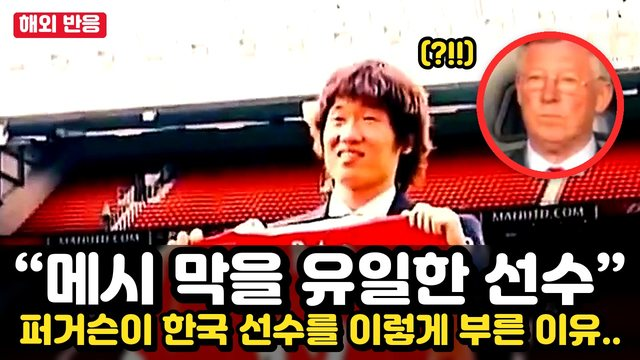
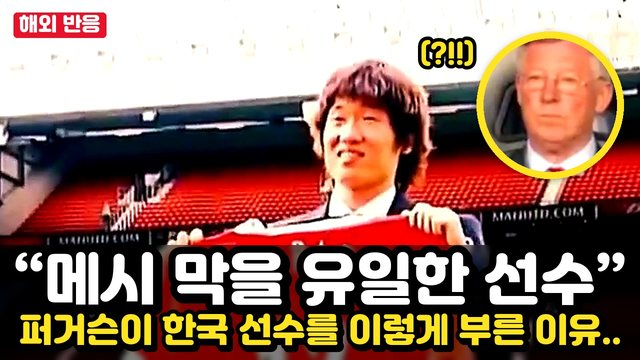
썸네일 V3.1 3차: 원 위 불꽃·불꽃 띠 끝 노출·VS 불꽃 줄기·좌우반전, 💀 실수 13개, 새 5편, 클릭 확대 미리보기

Changed region(s): [[0.7188, 0.0611, 1.0, 0.5194]]

diff --git a/국뽕-유튜브-리서치-허브-20261108/thumb-edit-studio-20261123/thumb-rules-v3/index.html b/국뽕-유튜브-리서치-허브-20261108/thumb-edit-studio-20261123/thumb-rules-v3/index.html
@@ -8,7 +8,7 @@ mark{background:#FFE51F;color:#111;padding:0 3px;border-radius:3px}.hl2{backgrou
 .cp{position:absolute;right:8px;top:8px;background:#333;color:#fff;border:0;border-radius:6px;padding:4px 10px;cursor:pointer}.cp.ok{background:#2a8f4a}
 ol li,ul li{margin:4px 0}.grid{display:grid;grid-template-columns:repeat(2,minmax(0,1fr));gap:12px}.grid figure{margin:0;background:#0c0d10;border-radius:10px;overflow:hidden}.grid img{width:100%;display:block}.grid figcaption{padding:8px 10px;font-size:14px}
 .sty{display:grid;grid-template-columns:repeat(3,minmax(0,1fr));gap:10px}.sty div{background:#22242b;border-radius:10px;padding:12px}
-@media(max-width:760px){.grid,.sty{grid-template-columns:1fr!important}}</style></head><body>
+@media(max-width:760px){.grid,.sty{grid-template-columns:1fr!important}}.skull{display:grid;grid-template-columns:repeat(2,minmax(0,1fr));gap:8px}.skull div{background:#2a1416;border:1px solid #E8132B;border-radius:10px;padding:10px 12px}.skull .n{font-size:20px;font-weight:900;color:#FFE51F}#ov{position:fixed;inset:0;background:#000d;display:none;align-items:center;justify-content:center;z-index:99}#ov img{max-width:96vw;max-height:92vh;width:auto}.grid img{cursor:zoom-in}@media(max-width:760px){.skull{grid-template-columns:1fr}}</style></head><body>
 <button id="all">📋 전체 복사</button>
 <h1>🔥 썸네일 V3.1 규칙 <small style="font-size:14px;color:#aaa">2026-11-24 · 다른 세션도 이대로</small></h1>
 <h2>📂 폴더 (먼저 연다)</h2>
@@ -19,6 +19,7 @@ ol li,ul li{margin:4px 0}.grid{display:grid;grid-template-columns:repeat(2,minma
 <div>📁 <b>결과물 폴더(영상별 썸네일_V3)</b></div><div class="cb "><button class="cp">복사</button><pre>/run/media/yh/새 볼륨/_국뽕영상결과물</pre></div>
 <div>📁 <b>규칙·합성기(compose4.py)</b></div><div class="cb "><button class="cp">복사</button><pre>/run/media/yh/새 볼륨/_국뽕영상결과물/제작규칙_V4/썸네일_V3</pre></div>
 <div>📁 <b>🆕 시범 10편 × 3버전 (V3.1 최신)</b></div><div class="cb "><button class="cp">복사</button><pre>/run/media/yh/새 볼륨/_국뽕영상결과물/제작규칙_V4/썸네일_V3/시범10_V3.1</pre></div>
+<h2>💀 지적받은 실수 — 다시 하면 탈락</h2><div class="skull"><div><span class="n">💀1</span> <b>중국 외국인들</b><br><span class="red">✗ &quot;중국 외국인들&quot;처럼 나라+외국인을 겹쳐 씀</span><br><span class="cy">✓ 중국인이면 중국인, 아니면 외국인 — 하나만</span></div><div><span class="n">💀2</span> <b>외국인 해외 반응 태그</b><br><span class="red">✗ 빨간 태그에 &quot;외국인 해외 반응&quot;</span><br><span class="cy">✓ 태그는 &quot;해외 반응&quot; 네 글자만</span></div><div><span class="n">💀3</span> <b>얼굴 쏠림·잘림</b><br><span class="red">✗ 인셋 얼굴이 한쪽으로 쏠리거나 잘림</span><br><span class="cy">✓ 얼굴은 칸 정중앙, 한 사람이면 그 얼굴만</span></div><div><span class="n">💀4</span> <b>국기 흰 사각형</b><br><span class="red">✗ 국기 뒤 흰 사각형(원본에 박힌 스티커)·빨간 테두리와 겹침</span><br><span class="cy">✓ 동그란 국기 배지, 박힌 스티커는 잘라냄</span></div><div><span class="n">💀5</span> <b>흰 동그라미</b><br><span class="red">✗ 원형 인셋에 흰 테두리</span><br><span class="cy">✓ 빨강 또는 노랑만 — 배경이 붉으면 노랑</span></div><div><span class="n">💀6</span> <b>원 아래 불꽃</b><br><span class="red">✗ 원 아래로 내려간 불꽃이 잘려서 허접</span><br><span class="cy">✓ 불꽃은 원 위쪽으로만 솟게, 아래쪽 불꽃은 없앰</span></div><div><span class="n">💀7</span> <b>안 보이는 불꽃 띠</b><br><span class="red">✗ 아래 불꽃 띠가 글자 뒤에 깔려 안 보임</span><br><span class="cy">✓ 불꽃 끝이 글자 위로 삐죽 보이게</span></div><div><span class="n">💀8</span> <b>촌스러운 VS 라벨</b><br><span class="red">✗ 한국·중국 라벨의 상자·테두리</span><br><span class="cy">✓ 테두리 없이 NO!! 색(노랑→주황→빨강) 글자 + 동그란 국기</span></div><div><span class="n">💀9</span> <b>VS 시선</b><br><span class="red">✗ VS 인물이 바깥쪽을 봄</span><br><span class="cy">✓ 좌우반전해서 서로 마주 보게, 가운데는 불꽃 줄기</span></div><div><span class="n">💀10</span> <b>휑한 화면</b><br><span class="red">✗ 빈 관중석·빈 배경</span><br><span class="cy">✓ 군중엔 빨간 동그라미 + ?, 놀란 얼굴엔 ?!, 레이어 4~6개</span></div><div><span class="n">💀11</span> <b>잘린 조각</b><br><span class="red">✗ 잘린 스티커·모자이크·초록 줄·로고가 남음</span><br><span class="cy">✓ 전부 잘라내고 다시 확인</span></div><div><span class="n">💀12</span> <b>흐린 얼굴</b><br><span class="red">✗ 저해상도 얼굴을 크게 확대</span><br><span class="cy">✓ 선명화 + 더 좋은 프레임, 필요하면 업스케일</span></div><div><span class="n">💀13</span> <b>몸 있는 사람</b><br><span class="red">✗ 몸이 아래까지 보이는데 얼굴만 크게 자름</span><br><span class="cy">✓ 몸까지 당겨 보이게, 양옆에서 솟는 불꽃</span></div></div>
 <h2>✍ 썸네일 문구 규칙</h2><ol><li>🏆 <mark><b>잘 만든 제목을 그대로 썸네일 문구로</b></mark> 쓴다.</li><li>❓ <b>답을 바로 말하지 않는다</b> — <span class="red">✗ 한국인이 좋아한 건 라면이었다</span> → <span class="cy">✓ 한국 라면에 외국인들 난리난 상황..</span></li><li>🔚 끝은 <mark>이유 · 상황 · ? · .. · ...</mark> 로 끊어 궁금하게.</li><li>🇰🇷 필수 단어: <mark>한국</mark> + <mark>반응 주체 하나</mark> — 중국 사람이면 <b>중국인(들)</b>, 일본이면 <b>일본인</b>, 여럿이거나 불분명하면 <b>외국인(들)</b>.<br><span class="red">🚫 ✗ 중국 외국인들 · ✗ 중국인 외국인 · ✗ 외국인들 해외 반응 (겹쳐 쓰기 금지)</span><br><span class="cy">✓ 중국인 넋 나간 이유.. · ✓ 외국인 넋 나간 이유.. · ✓ 중국 블로거 한마디에 외국인들 반응..</span><br>🏷 빨간 태그는 <mark>해외 반응</mark> 네 글자만 (✗ 외국인 해외 반응).</li><li>💥 강조어(근거에 맞는 것 하나): 대박·경악·충격·놀람·논란·오열·난리·대폭발·대반전·발칵·망연자실.</li><li>🔢 숫자는 <mark>한글 단위</mark>: 4000 → <b>4천</b>, 450000 → <b>45만</b>. 반올림 금지.</li><li>🗨 “큰따옴표”는 <b>영상 속 실제 발언만</b>. 인용·인원·수치·반응 강도는 영상에서 확인한 범위만.</li></ol>
 <div>📋 <b>규칙 원문 (복사용)</b></div><div class="cb "><button class="cp">복사</button><pre>제목·썸네일 문구에 ‘외국인’ 또는 ‘외국인들’과 ‘해외 반응’을 넣는다. ‘리액션’은 선택. 대박·경악·충격·놀람·논란·오열·난리·대폭발·대반전 중 근거에 맞는 표현을 고른다.
 비교·현장형은 ‘한국처럼 못하나’, ‘삼성으로 몰려가는 외국인’, ‘유럽인들 발칵’, ‘경악한 미국’, ‘무섭다’, ‘싹 다 쓸어갔다·망쳐놨다·무너졌다’처럼 비교 대상과 장면을 앞에 둔다.
@@ -29,36 +30,51 @@ ol li,ul li{margin:4px 0}.grid{display:grid;grid-template-columns:repeat(2,minma
 “큰따옴표”는 영상 속 실제 발언만. 제목에는 이모지(🔥😱😭🇰🇷)를 항상 넣는다.</pre></div>
 <h2>🖼 화면 구성 — 꽉 차게</h2><ol><li>🧱 <mark><b>레이어 4~6개</b></mark>: 배경 사진 + 인셋 2장(하늘색·흰·빨강 테두리) + 국기·VS + 말풍선 (?!!)·(헐...)·(....)·똑똑히 보세요 + 빨간 화살표·노란 동그라미 + 빨간 태그 “해외 반응”.</li><li>🌄 배경은 <b>화면 끝까지</b>. 사진이 짧으면 같은 사진을 흐리게·어둡게 키워 뒤를 채운다.</li><li>🌫 글자 뒤가 복잡하면 <mark>그 띠만 블러 + 어둡게</mark>.</li><li>🙂 <span class="red">얼굴은 글자와 절대 겹치지 않는다.</span> 얼굴은 위·아래 글자 사이 가운데 띠 안에 통째로. 눈만 보이는 과한 클로즈업·너무 작은 얼굴 금지 — <b>띠 높이의 40~80%</b>.</li><li>📸 사진 우선순위: 놀람 2 › 소리침·충격·눈물·경악·공포 › 깔깔 웃음 / 우르르 인파 / 서양인·흑인·아나운서·기자·뉴스 화면. 영상에 박힌 자막은 잘라낸다.</li><li>🎯 <mark><b>인셋 얼굴은 칸 정중앙</b></mark>. 한쪽으로 쏠리면 다시 만든다. 얼굴이 원본 가장자리면 더 클로즈업해서라도 가운데로. 한 사람을 쓸 땐 <b>그 사람 얼굴만</b>(어깨 위).</li><li>🏳 <mark>국기는 동그란 배지</mark>(흰 테+검정 외곽선), 인셋 테두리와 30px 이상 띄운다. 흰 사각형이 보이면 <b>원본에 박힌 스티커·자막</b>인지 먼저 확인해 잘라낸다.</li><li>⭕ 원형 인셋 OK — 네모만 고집하지 않는다. <b>원 뒤에 황금 불꽃 아치</b> = 사람 뒤에서 불 나오는 효과.</li><li>🔥 디자인 요소(폴더 맨 위 파일만, xxxx 하위 폴더 제외): 불꽃 아치(원 뒤) · 불꽃 띠(아래 글자 뒤) · 번개/불꽃 줄기(VS 분할선) · <b>NO!! 노우</b>(거절·반대 문맥일 때만) · ㅋㅋ(웃음 문맥).</li><li>🚫 놀란 표정을 <b>새로 만들어 넣지 않는다</b>(실존 인물 표정 조작 금지). 영상 속 실제 놀람·소리침 프레임만.</li><li>🧽 K PRIDE 등 로고·원본 스티커·박힌 자막·<b>모자이크·화면 맨 위 색 줄</b>은 잘라낸다. <span class="red">잘린 스티커 조각이 남으면 완성도 탈락.</span></li><li>⭕ <span class="red">흰 동그라미 테두리 금지</span> — 원형 테두리는 <mark>빨강</mark> 또는 <mark>노랑</mark>만.</li><li>🔥 <mark><b>불꽃은 끊기지 않게</b></mark>: 원 뒤 불꽃은 화면 맨 아래까지 늘려 아래 불꽃 띠와 이어지게. 몸이 아래까지 보이는 사람은 <b>몸까지 보이게 당기고 양옆에서 솟는 불꽃</b>.</li><li>🏷 VS 나라 라벨은 <b>상자·테두리 없이</b> 동그란 국기 + <span style="background:linear-gradient(#F9DF00,#FC8701,#FD0C01);-webkit-background-clip:text;color:transparent;font-weight:900">NO!! 색 그라데이션</span> 글자.</li><li>❓ 군중 사진엔 <span class="red">빨간 동그라미</span> + 노랑 <b>?</b> / 놀란 얼굴 옆엔 <b>?!</b></li><li>🔍 저해상도 원본은 자동 선명화. 원본 480p 이하면 AI 업스케일 필요.</li><li>🔤 폰트: <mark>여기어때 잘난체 2</mark>만. 검정 외곽선 = 글자 크기 1/8 + 그림자. 색 노랑 #FFE51F · 흰 #FFFFFF · 하늘 #3DE6FF · 태그 빨강 #E8132B.</li></ol>
 <h2>🎨 스타일 (좋썸넬 분석 + 사용자 지정 2종)</h2><div class="sty"><div><b>A 뉴스 3줄형</b><br>위 2~3줄(첫 줄 흰 “인용”, 나머지 노랑) + 가운데 사진 띠(인셋 2·국기·화살표) + 아래 1줄 <span class="cy">하늘색 질문·이유</span>. 조회수 상위 다수.</div><div><b>B 리액션 인셋형</b><br>위 2줄 + 큰 현장 사진(군중·제품) 위에 반응 얼굴 인셋 2장 + 아래 <span class="cy">“인용…”</span>.</div><div><b>C 임팩트 2줄형</b><br>사진 한 장 크게 + 아래 2줄 아주 크게(흰 “인용” + 노랑 이유..) + 원형 인셋 1개 + 빨간 태그.</div><div style="border:2px solid #FFE51F"><b>🆕 B′ 번개 VS 세로 분할형</b><br>화면 반반: 왼쪽 🇰🇷 한국 / 오른쪽 상대국 얼굴. 가운데 <mark>노란 번개 또는 불꽃 줄기 + 큰 VS</mark>. 위 양끝 국기+나라 라벨(한국 파랑·상대 빨강). 아래 2줄 흰 “인용” + 노랑 이유..</div><div style="border:2px solid #FF2B2B"><b>🆕 C′ 불꽃 원형 충격형</b><br>큰 장면 전체 + 오른쪽 위 <mark>원형 놀란 얼굴 + 뒤에 불꽃 아치</mark> + 노랑 ?! + 왼쪽 위 빨간 “해외 반응” + 아래 <b>불꽃 띠</b> 위 2줄(흰 “인용” + 하늘색 이유..). 거절 문맥이면 NO!!.</div></div><p>👉 <mark><b>한 영상당 3장</b></mark>: A(또는 B·C) 1장 + B′ 1장 + C′ 1장.</p>
-<h2>🧪 시범 10편 × 3버전 (V3.1 · 우리 영상 캡처로 제작)</h2><p>🔧 <b>2차 수정(11-24 밤)</b>: 불꽃 아치 화면 아래까지 · 흰 원 → 빨강/노랑 · VS 라벨 NO!! 그라데이션 · 잘린 스티커·모자이크·초록 줄 제거 · 군중 빨간 원+? · 저해상도 선명화.</p><p>🔧 <b>V3에서 고친 것</b>: <span class="red">중국 외국인 → 중국인/외국인</span> · 태그 “해외 반응”만 · 인셋 얼굴 정중앙 · 양궁 코치 얼굴만 · 국기 동그란 배지 · 관중 사진에 박힌 흰 스티커 제거.</p><p>⚠ 07 페이커 인용은 자동번역 자막 — 공개 전 원음 대조.</p><div class="grid" style="grid-template-columns:repeat(3,minmax(0,1fr))"><figure><img loading="lazy" src="samples31/v31_01_a.jpg" alt="01 a"><figcaption><b>01 · V5_EP01_핵잠수함 · A 수정본</b><br>“핵잠수함 연료 쓰게 해달라” / 미국 앞에서 꺼낸 한국 한마디.. / 중국인들 술렁인 상황 / 다음 날 중국 외교부까지 나선 이유?</figcaption></figure>
-<figure><img loading="lazy" src="samples31/v31_01_b.jpg" alt="01 b"><figcaption><b>01 · V5_EP01_핵잠수함 · B′ 번개 VS 분할</b><br>(한국 VS 미국) “핵잠수함 연료 쓰게 해달라” / 중국 외교부까지 나선 이유?</figcaption></figure>
-<figure><img loading="lazy" src="samples31/v31_01_c.jpg" alt="01 c"><figcaption><b>01 · V5_EP01_핵잠수함 · C′ 불꽃 원형 충격</b><br>“핵잠수함 연료 쓰게 해달라” / 한국 한마디에 중국인들 술렁인 이유..</figcaption></figure>
-<figure><img loading="lazy" src="samples31/v31_02_a.jpg" alt="02 a"><figcaption><b>02 · EP07_박지성 · A 수정본</b><br>“메시 막을 유일한 선수” / 퍼거슨이 한국 선수를 이렇게 부른 이유..</figcaption></figure>
-<figure><img loading="lazy" src="samples31/v31_02_b.jpg" alt="02 b"><figcaption><b>02 · EP07_박지성 · B′ 번개 VS 분할</b><br>(한국 VS 이탈리아) “박지성을 보내 나를 막게 했다” / 피를로가 한국 선수를 못 잊는 이유..</figcaption></figure>
-<figure><img loading="lazy" src="samples31/v31_02_c.jpg" alt="02 c"><figcaption><b>02 · EP07_박지성 · C′ 불꽃 원형 충격</b><br>“메시 막을 유일한 선수” / 퍼거슨이 한국 선수를 이렇게 부른 이유..</figcaption></figure>
-<figure><img loading="lazy" src="samples31/v31_03_a.jpg" alt="03 a"><figcaption><b>03 · V5_EP09_이강인교재 · A 수정본</b><br>“군대 피하러 아시안게임 왔다” / 한국 이강인 비웃던 중국인들.. / 두 달 뒤 벌어진 대반전 상황 / 중국 코치가 결국 꺼낸 영상은?</figcaption></figure>
-<figure><img loading="lazy" src="samples31/v31_03_b.jpg" alt="03 b"><figcaption><b>03 · V5_EP09_이강인교재 · B′ 번개 VS 분할</b><br>(한국 VS 중국) “군대 피하러 아시안게임 왔다” / 이강인 비웃던 중국인들 대반전 상황..</figcaption></figure>
-<figure><img loading="lazy" src="samples31/v31_03_c.jpg" alt="03 c"><figcaption><b>03 · V5_EP09_이강인교재 · C′ 불꽃 원형 충격</b><br>“군대 피하러 아시안게임 왔다” / 한국 이강인 비웃던 중국인들 결국.. (+NO!!)</figcaption></figure>
-<figure><img loading="lazy" src="samples31/v31_04_a.jpg" alt="04 a"><figcaption><b>04 · EP_라면편의점 · A 수정본</b><br>한국 편의점 라면 한 그릇에 / 중국인들 난리난 상황.. / “맵다! 근데...”</figcaption></figure>
-<figure><img loading="lazy" src="samples31/v31_04_b.jpg" alt="04 b"><figcaption><b>04 · EP_라면편의점 · B′ 번개 VS 분할</b><br>(한국 라면 VS 중국인) “맵다! 근데 맛있어요” / 한국 라면에 중국인들 난리난 이유..</figcaption></figure>
-<figure><img loading="lazy" src="samples31/v31_04_c.jpg" alt="04 c"><figcaption><b>04 · EP_라면편의점 · C′ 불꽃 원형 충격</b><br>“맵다! 근데 맛있어요” / 한국 편의점에 중국인들 난리난 상황..</figcaption></figure>
-<figure><img loading="lazy" src="samples31/v31_05_a.jpg" alt="05 a"><figcaption><b>05 · V5_EP06_GV90 · A 수정본</b><br>“일본차 사지 말고 한국차” / 중국 블로거 한마디에 외국인들 반응.. / “한국산이 50만 루블 더 비쌉니다”...</figcaption></figure>
-<figure><img loading="lazy" src="samples31/v31_05_b.jpg" alt="05 b"><figcaption><b>05 · V5_EP06_GV90 · B′ 번개 VS 분할</b><br>(한국 VS 러시아) “한국산이 50만 루블 더 비쌉니다” / 같은 투싼인데 외국인 놀란 이유..</figcaption></figure>
-<figure><img loading="lazy" src="samples31/v31_05_c.jpg" alt="05 c"><figcaption><b>05 · V5_EP06_GV90 · C′ 불꽃 원형 충격</b><br>“일본차 사지 말고 한국차” / 중국 블로거 한마디에 외국인들 반응.. (+NO!!)</figcaption></figure>
-<figure><img loading="lazy" src="samples31/v31_06_a.jpg" alt="06 a"><figcaption><b>06 · EP09_양궁드림팀 · A 수정본</b><br>“한국 여자팀은 진정한 드림팀” / 중국 해설이 결국 인정한 이유.. / “원래대로라면 우리가...” 해외 반응</figcaption></figure>
-<figure><img loading="lazy" src="samples31/v31_06_b.jpg" alt="06 b"><figcaption><b>06 · EP09_양궁드림팀 · B′ 번개 VS 분할</b><br>(한국 VS 중국) “원래대로라면 우리가...” / 한국 양궁에 중국 해설이 인정한 이유..</figcaption></figure>
-<figure><img loading="lazy" src="samples31/v31_06_c.jpg" alt="06 c"><figcaption><b>06 · EP09_양궁드림팀 · C′ 불꽃 원형 충격</b><br>“한국 여자팀은 진정한 드림팀” / 중국 해설이 결국 인정한 이유..</figcaption></figure>
-<figure><img loading="lazy" src="samples31/v31_07_a.jpg" alt="07 a"><figcaption><b>07 · EP06_페이커 · A 수정본</b><br>한국 페이커에게 중국인들.. / 해설이 건넨 한마디 상황 / “그는 이길 자격이 있어요” 해외 반응</figcaption></figure>
-<figure><img loading="lazy" src="samples31/v31_07_b.jpg" alt="07 b"><figcaption><b>07 · EP06_페이커 · B′ 번개 VS 분할</b><br>(한국 VS 중국) “그는 이길 자격이 있어요” / 한국 페이커에게 중국인들이 건넨 한마디..</figcaption></figure>
-<figure><img loading="lazy" src="samples31/v31_07_c.jpg" alt="07 c"><figcaption><b>07 · EP06_페이커 · C′ 불꽃 원형 충격</b><br>“그는 이길 자격이 있어요” / 한국 페이커에게 중국인들 한마디..</figcaption></figure>
-<figure><img loading="lazy" src="samples31/v31_08_a.jpg" alt="08 a"><figcaption><b>08 · NEW02_한국마트과일가격 · A 수정본</b><br>한국 마트 사과 한 개 4천 원? / 중국인 넋 나간 이유..</figcaption></figure>
-<figure><img loading="lazy" src="samples31/v31_08_b.jpg" alt="08 b"><figcaption><b>08 · NEW02_한국마트과일가격 · B′ 번개 VS 분할</b><br>(한국 VS 중국) “보고 넋이 나갔어요” / 한국 마트 사과 한 개 4천 원?</figcaption></figure>
-<figure><img loading="lazy" src="samples31/v31_08_c.jpg" alt="08 c"><figcaption><b>08 · NEW02_한국마트과일가격 · C′ 불꽃 원형 충격</b><br>“보고 넋이 나갔어요” / 한국 마트 사과 한 개 4천 원?</figcaption></figure>
-<figure><img loading="lazy" src="samples31/v31_09_a.jpg" alt="09 a"><figcaption><b>09 · V5_EP08_일본아시안게임 · A 수정본</b><br>일본 안방 결승서 맞붙은 한국.. / 19점 차가 2점 차로? / 중국 해설자가 결국 인정한 이유 / 해외 반응 대반전 상황?</figcaption></figure>
-<figure><img loading="lazy" src="samples31/v31_09_b.jpg" alt="09 b"><figcaption><b>09 · V5_EP08_일본아시안게임 · B′ 번개 VS 분할</b><br>(한국 VS 일본) 19점 차가 2점 차로? / 일본 안방 결승서 벌어진 상황..</figcaption></figure>
-<figure><img loading="lazy" src="samples31/v31_09_c.jpg" alt="09 c"><figcaption><b>09 · V5_EP08_일본아시안게임 · C′ 불꽃 원형 충격</b><br>일본 안방 결승서 맞붙은 한국.. / 중국 해설자가 결국 인정한 이유</figcaption></figure>
-<figure><img loading="lazy" src="samples31/v31_10_a.jpg" alt="10 a"><figcaption><b>10 · V5_EP02_튀르키예노병 · A 수정본</b><br>“당신이 없었다면 우리도 없었다” / 튀르키예 노병 앞에 무릎 꿇은 한국인들.. / 중국인들 반응 터진 이유 / 중국 뉴스 45만 명이 본 그 장면?</figcaption></figure>
-<figure><img loading="lazy" src="samples31/v31_10_b.jpg" alt="10 b"><figcaption><b>10 · V5_EP02_튀르키예노병 · B′ 번개 VS 분할</b><br>(한국 VS 튀르키예) “당신이 없었다면 우리도 없었다” / 노병 앞에 무릎 꿇은 한국인들..</figcaption></figure>
-<figure><img loading="lazy" src="samples31/v31_10_c.jpg" alt="10 c"><figcaption><b>10 · V5_EP02_튀르키예노병 · C′ 불꽃 원형 충격</b><br>“당신이 없었다면 우리도 없었다” / 중국인들 반응 터진 이유..</figcaption></figure></div>
+<h2>🧪 시범 15편 × 3버전 = 45장 <small style="font-size:14px;color:#aaa">(클릭하면 크게 · ← → 넘김 · Esc 닫기)</small></h2><p>📊 <b>진행</b>: 전체 52편 중 <mark>15편 완료</mark> · <span class="red">남은 영상 37편</span></p><p>🔧 <b>3차 수정(11-25)</b>: 원 위로만 불꽃 · 아래 불꽃 끝 보이게 · VS 불꽃 줄기 + 서로 마주 보게 좌우반전 · 퍼거슨·이강인 원 노랑 · 관중석 빨간 원 + ? · 새 5편(손흥민·커제·다이소·부산 가족·서울 낡았다).</p><p>⚠ 07 페이커·12 커제 인용은 원음 대조 전.</p><div class="grid" style="grid-template-columns:repeat(3,minmax(0,1fr))"><figure><a class="lb" href="full31/01_a.jpg"><img loading="lazy" src="samples31/v31_01_a.jpg" alt="01 a"></a><figcaption><b>01 · V5_EP01_핵잠수함 · A 수정본</b><br>“핵잠수함 연료 쓰게 해달라” / 미국 앞에서 꺼낸 한국 한마디.. / 중국인들 술렁인 상황 / 다음 날 중국 외교부까지 나선 이유?</figcaption></figure>
+<figure><a class="lb" href="full31/01_b.jpg"><img loading="lazy" src="samples31/v31_01_b.jpg" alt="01 b"></a><figcaption><b>01 · V5_EP01_핵잠수함 · B 불꽃 VS 분할</b><br>(한국 VS 미국) “핵잠수함 연료 쓰게 해달라” / 중국 외교부까지 나선 이유?</figcaption></figure>
+<figure><a class="lb" href="full31/01_c.jpg"><img loading="lazy" src="samples31/v31_01_c.jpg" alt="01 c"></a><figcaption><b>01 · V5_EP01_핵잠수함 · C 불꽃 원형 충격</b><br>“핵잠수함 연료 쓰게 해달라” / 한국 한마디에 중국인들 술렁인 이유..</figcaption></figure>
+<figure><a class="lb" href="full31/02_a.jpg"><img loading="lazy" src="samples31/v31_02_a.jpg" alt="02 a"></a><figcaption><b>02 · EP07_박지성 · A 수정본</b><br>“메시 막을 유일한 선수” / 퍼거슨이 한국 선수를 이렇게 부른 이유..</figcaption></figure>
+<figure><a class="lb" href="full31/02_b.jpg"><img loading="lazy" src="samples31/v31_02_b.jpg" alt="02 b"></a><figcaption><b>02 · EP07_박지성 · B 불꽃 VS 분할</b><br>(한국 VS 이탈리아) “박지성을 보내 나를 막게 했다” / 피를로가 한국 선수를 못 잊는 이유..</figcaption></figure>
+<figure><a class="lb" href="full31/02_c.jpg"><img loading="lazy" src="samples31/v31_02_c.jpg" alt="02 c"></a><figcaption><b>02 · EP07_박지성 · C 불꽃 원형 충격</b><br>“메시 막을 유일한 선수” / 퍼거슨이 한국 선수를 이렇게 부른 이유..</figcaption></figure>
+<figure><a class="lb" href="full31/03_a.jpg"><img loading="lazy" src="samples31/v31_03_a.jpg" alt="03 a"></a><figcaption><b>03 · V5_EP09_이강인교재 · A 수정본</b><br>“군대 피하러 아시안게임 왔다” / 한국 이강인 비웃던 중국인들.. / 두 달 뒤 벌어진 대반전 상황 / 중국 코치가 결국 꺼낸 영상은?</figcaption></figure>
+<figure><a class="lb" href="full31/03_b.jpg"><img loading="lazy" src="samples31/v31_03_b.jpg" alt="03 b"></a><figcaption><b>03 · V5_EP09_이강인교재 · B 불꽃 VS 분할</b><br>(한국 VS 중국) “군대 피하러 아시안게임 왔다” / 이강인 비웃던 중국인들 대반전 상황..</figcaption></figure>
+<figure><a class="lb" href="full31/03_c.jpg"><img loading="lazy" src="samples31/v31_03_c.jpg" alt="03 c"></a><figcaption><b>03 · V5_EP09_이강인교재 · C 불꽃 원형 충격</b><br>“군대 피하러 아시안게임 왔다” / 한국 이강인 비웃던 중국인들 결국.. (+NO!!)</figcaption></figure>
+<figure><a class="lb" href="full31/04_a.jpg"><img loading="lazy" src="samples31/v31_04_a.jpg" alt="04 a"></a><figcaption><b>04 · EP_라면편의점 · A 수정본</b><br>한국 편의점 라면 한 그릇에 / 중국인들 난리난 상황.. / “맵다! 근데...”</figcaption></figure>
+<figure><a class="lb" href="full31/04_b.jpg"><img loading="lazy" src="samples31/v31_04_b.jpg" alt="04 b"></a><figcaption><b>04 · EP_라면편의점 · B 불꽃 VS 분할</b><br>(한국 라면 VS 중국인) “맵다! 근데 맛있어요” / 한국 라면에 중국인들 난리난 이유..</figcaption></figure>
+<figure><a class="lb" href="full31/04_c.jpg"><img loading="lazy" src="samples31/v31_04_c.jpg" alt="04 c"></a><figcaption><b>04 · EP_라면편의점 · C 불꽃 원형 충격</b><br>“맵다! 근데 맛있어요” / 한국 편의점에 중국인들 난리난 상황..</figcaption></figure>
+<figure><a class="lb" href="full31/05_a.jpg"><img loading="lazy" src="samples31/v31_05_a.jpg" alt="05 a"></a><figcaption><b>05 · V5_EP06_GV90 · A 수정본</b><br>“일본차 사지 말고 한국차” / 중국 블로거 한마디에 외국인들 반응.. / “한국산이 50만 루블 더 비쌉니다”...</figcaption></figure>
+<figure><a class="lb" href="full31/05_b.jpg"><img loading="lazy" src="samples31/v31_05_b.jpg" alt="05 b"></a><figcaption><b>05 · V5_EP06_GV90 · B 불꽃 VS 분할</b><br>(한국 VS 러시아) “한국산이 50만 루블 더 비쌉니다” / 같은 투싼인데 외국인 놀란 이유..</figcaption></figure>
+<figure><a class="lb" href="full31/05_c.jpg"><img loading="lazy" src="samples31/v31_05_c.jpg" alt="05 c"></a><figcaption><b>05 · V5_EP06_GV90 · C 불꽃 원형 충격</b><br>“일본차 사지 말고 한국차” / 중국 블로거 한마디에 외국인들 반응.. (+NO!!)</figcaption></figure>
+<figure><a class="lb" href="full31/06_a.jpg"><img loading="lazy" src="samples31/v31_06_a.jpg" alt="06 a"></a><figcaption><b>06 · EP09_양궁드림팀 · A 수정본</b><br>“한국 여자팀은 진정한 드림팀” / 중국 해설이 결국 인정한 이유.. / “원래대로라면 우리가...” 해외 반응</figcaption></figure>
+<figure><a class="lb" href="full31/06_b.jpg"><img loading="lazy" src="samples31/v31_06_b.jpg" alt="06 b"></a><figcaption><b>06 · EP09_양궁드림팀 · B 불꽃 VS 분할</b><br>(한국 VS 중국) “원래대로라면 우리가...” / 한국 양궁에 중국 해설이 인정한 이유..</figcaption></figure>
+<figure><a class="lb" href="full31/06_c.jpg"><img loading="lazy" src="samples31/v31_06_c.jpg" alt="06 c"></a><figcaption><b>06 · EP09_양궁드림팀 · C 불꽃 원형 충격</b><br>“한국 여자팀은 진정한 드림팀” / 중국 해설이 결국 인정한 이유..</figcaption></figure>
+<figure><a class="lb" href="full31/07_a.jpg"><img loading="lazy" src="samples31/v31_07_a.jpg" alt="07 a"></a><figcaption><b>07 · EP06_페이커 · A 수정본</b><br>한국 페이커에게 중국인들.. / 해설이 건넨 한마디 상황 / “그는 이길 자격이 있어요” 해외 반응</figcaption></figure>
+<figure><a class="lb" href="full31/07_b.jpg"><img loading="lazy" src="samples31/v31_07_b.jpg" alt="07 b"></a><figcaption><b>07 · EP06_페이커 · B 불꽃 VS 분할</b><br>(한국 VS 중국) “그는 이길 자격이 있어요” / 한국 페이커에게 중국인들이 건넨 한마디..</figcaption></figure>
+<figure><a class="lb" href="full31/07_c.jpg"><img loading="lazy" src="samples31/v31_07_c.jpg" alt="07 c"></a><figcaption><b>07 · EP06_페이커 · C 불꽃 원형 충격</b><br>“그는 이길 자격이 있어요” / 한국 페이커에게 중국인들 한마디..</figcaption></figure>
+<figure><a class="lb" href="full31/08_a.jpg"><img loading="lazy" src="samples31/v31_08_a.jpg" alt="08 a"></a><figcaption><b>08 · NEW02_한국마트과일가격 · A 수정본</b><br>한국 마트 사과 한 개 4천 원? / 중국인 넋 나간 이유..</figcaption></figure>
+<figure><a class="lb" href="full31/08_b.jpg"><img loading="lazy" src="samples31/v31_08_b.jpg" alt="08 b"></a><figcaption><b>08 · NEW02_한국마트과일가격 · B 불꽃 VS 분할</b><br>(한국 VS 중국) “보고 넋이 나갔어요” / 한국 마트 사과 한 개 4천 원?</figcaption></figure>
+<figure><a class="lb" href="full31/08_c.jpg"><img loading="lazy" src="samples31/v31_08_c.jpg" alt="08 c"></a><figcaption><b>08 · NEW02_한국마트과일가격 · C 불꽃 원형 충격</b><br>“보고 넋이 나갔어요” / 한국 마트 사과 한 개 4천 원?</figcaption></figure>
+<figure><a class="lb" href="full31/09_a.jpg"><img loading="lazy" src="samples31/v31_09_a.jpg" alt="09 a"></a><figcaption><b>09 · V5_EP08_일본아시안게임 · A 수정본</b><br>일본 안방 결승서 맞붙은 한국.. / 19점 차가 2점 차로? / 중국 해설자가 결국 인정한 이유 / 해외 반응 대반전 상황?</figcaption></figure>
+<figure><a class="lb" href="full31/09_b.jpg"><img loading="lazy" src="samples31/v31_09_b.jpg" alt="09 b"></a><figcaption><b>09 · V5_EP08_일본아시안게임 · B 불꽃 VS 분할</b><br>(한국 VS 일본) 19점 차가 2점 차로? / 일본 안방 결승서 벌어진 상황..</figcaption></figure>
+<figure><a class="lb" href="full31/09_c.jpg"><img loading="lazy" src="samples31/v31_09_c.jpg" alt="09 c"></a><figcaption><b>09 · V5_EP08_일본아시안게임 · C 불꽃 원형 충격</b><br>일본 안방 결승서 맞붙은 한국.. / 중국 해설자가 결국 인정한 이유</figcaption></figure>
+<figure><a class="lb" href="full31/10_a.jpg"><img loading="lazy" src="samples31/v31_10_a.jpg" alt="10 a"></a><figcaption><b>10 · V5_EP02_튀르키예노병 · A 수정본</b><br>“당신이 없었다면 우리도 없었다” / 튀르키예 노병 앞에 무릎 꿇은 한국인들.. / 중국인들 반응 터진 이유 / 중국 뉴스 45만 명이 본 그 장면?</figcaption></figure>
+<figure><a class="lb" href="full31/10_b.jpg"><img loading="lazy" src="samples31/v31_10_b.jpg" alt="10 b"></a><figcaption><b>10 · V5_EP02_튀르키예노병 · B 불꽃 VS 분할</b><br>(한국 VS 튀르키예) “당신이 없었다면 우리도 없었다” / 노병 앞에 무릎 꿇은 한국인들..</figcaption></figure>
+<figure><a class="lb" href="full31/10_c.jpg"><img loading="lazy" src="samples31/v31_10_c.jpg" alt="10 c"></a><figcaption><b>10 · V5_EP02_튀르키예노병 · C 불꽃 원형 충격</b><br>“당신이 없었다면 우리도 없었다” / 중국인들 반응 터진 이유..</figcaption></figure>
+<figure><a class="lb" href="full31/11_a.jpg"><img loading="lazy" src="samples31/v31_11_a.jpg" alt="11 a"></a><figcaption><b>11 · EP08_손흥민중국인 · A 수정본</b><br>“손흥민이 중국인이라면” / 중국 평론가가 꺼낸 충격 가정.. / 한국 선수에 르브론까지 꺼낸 이유?</figcaption></figure>
+<figure><a class="lb" href="full31/11_b.jpg"><img loading="lazy" src="samples31/v31_11_b.jpg" alt="11 b"></a><figcaption><b>11 · EP08_손흥민중국인 · B 불꽃 VS 분할</b><br>(한국 VS 중국) “르브론 제임스를 뛰어넘는 존재” / 손흥민이 중국인이라면?</figcaption></figure>
+<figure><a class="lb" href="full31/11_c.jpg"><img loading="lazy" src="samples31/v31_11_c.jpg" alt="11 c"></a><figcaption><b>11 · EP08_손흥민중국인 · C 불꽃 원형 충격</b><br>“손흥민이 중국인이라면” / 중국 평론가가 꺼낸 충격 가정..</figcaption></figure>
+<figure><a class="lb" href="full31/12_a.jpg"><img loading="lazy" src="samples31/v31_12_a.jpg" alt="12 a"></a><figcaption><b>12 · V5_EP10_커제반칙패 · A 수정본</b><br>한국에서 열린 세계대회 결승.. / 커제 반칙패에 중국인들 발칵 / 중국은 텃세, 한국은 규정이라 한 이유?</figcaption></figure>
+<figure><a class="lb" href="full31/12_b.jpg"><img loading="lazy" src="samples31/v31_12_b.jpg" alt="12 b"></a><figcaption><b>12 · V5_EP10_커제반칙패 · B 불꽃 VS 분할</b><br>(한국 VS 중국) 중국은 텃세라 했고 / 한국은 규정이라 했다..</figcaption></figure>
+<figure><a class="lb" href="full31/12_c.jpg"><img loading="lazy" src="samples31/v31_12_c.jpg" alt="12 c"></a><figcaption><b>12 · V5_EP10_커제반칙패 · C 불꽃 원형 충격</b><br>“바둑계의 비극” / 커제 반칙패에 중국인들 들끓은 이유..</figcaption></figure>
+<figure><a class="lb" href="full31/13_a.jpg"><img loading="lazy" src="samples31/v31_13_a.jpg" alt="13 a"></a><figcaption><b>13 · EP10_다이소 · A 수정본</b><br>“값은 싸죠” / 한국 다이소 털어간 중국인들.. / 솔직 후기 대반전 상황?</figcaption></figure>
+<figure><a class="lb" href="full31/13_b.jpg"><img loading="lazy" src="samples31/v31_13_b.jpg" alt="13 b"></a><figcaption><b>13 · EP10_다이소 · B 불꽃 VS 분할</b><br>(한국 다이소 VS 중국인) “값은 싸죠” / 한국 다이소 털어간 중국인 반전 후기..</figcaption></figure>
+<figure><a class="lb" href="full31/13_c.jpg"><img loading="lazy" src="samples31/v31_13_c.jpg" alt="13 c"></a><figcaption><b>13 · EP10_다이소 · C 불꽃 원형 충격</b><br>“값은 싸죠” / 한국 다이소에 중국인들 선 그은 이유..</figcaption></figure>
+<figure><a class="lb" href="full31/14_a.jpg"><img loading="lazy" src="samples31/v31_14_a.jpg" alt="14 a"></a><figcaption><b>14 · EP08_부산중국인가족 · A 수정본</b><br>“너무 예쁘다, 너무 재밌다” / 부산 밤바다에 중국인 가족 반한 상황.. / 호텔은 불평하더니 반전?</figcaption></figure>
+<figure><a class="lb" href="full31/14_b.jpg"><img loading="lazy" src="samples31/v31_14_b.jpg" alt="14 b"></a><figcaption><b>14 · EP08_부산중국인가족 · B 불꽃 VS 분할</b><br>(한국 부산 VS 중국인) “너무 예쁘다, 너무 재밌다” / 호텔 불평하던 중국인 가족 반전..</figcaption></figure>
+<figure><a class="lb" href="full31/14_c.jpg"><img loading="lazy" src="samples31/v31_14_c.jpg" alt="14 c"></a><figcaption><b>14 · EP08_부산중국인가족 · C 불꽃 원형 충격</b><br>“너무 예쁘다, 너무 재밌다” / 한국 부산에 중국인 가족 반한 이유..</figcaption></figure>
+<figure><a class="lb" href="full31/15_a.jpg"><img loading="lazy" src="samples31/v31_15_a.jpg" alt="15 a"></a><figcaption><b>15 · EP04_서울낡았다중국SNS · A 수정본</b><br>서울이 낡았다고? / 한국 직접 걸어본 중국인.. / 중국 SNS 편견 뒤집힌 이유?</figcaption></figure>
+<figure><a class="lb" href="full31/15_b.jpg"><img loading="lazy" src="samples31/v31_15_b.jpg" alt="15 b"></a><figcaption><b>15 · EP04_서울낡았다중국SNS · B 불꽃 VS 분할</b><br>(한국 서울 VS 중국인) 서울이 낡았다고? / 한국 걸어본 중국인 반전 반응..</figcaption></figure>
+<figure><a class="lb" href="full31/15_c.jpg"><img loading="lazy" src="samples31/v31_15_c.jpg" alt="15 c"></a><figcaption><b>15 · EP04_서울낡았다중국SNS · C 불꽃 원형 충격</b><br>서울이 낡았다고? / 중국 SNS 편견에 중국인이 답한 이유..</figcaption></figure></div>
 <h2>📈 참고 제목 TOP 20 (한 줄씩 복사)</h2><div class="cb "><button class="cp">복사</button><pre>1. “한국에 이런 배우가 있었다고?” 원빈 액션에 놀란 외국인들🔥 《아저씨》 최신 해외반응 리액션
 2. 8년 만에 돌아와 월즈 찢음🔥 《 2026 월드 챔피언십 결승전 오프닝무대》 K/DA 소연·미연 해외반응 리액션
 3. 한국 스릴러의 매운맛 제대로 본 외국인들😱《추격자》 해외반응 리액션
@@ -113,5 +129,5 @@ ol li,ul li{margin:4px 0}.grid{display:grid;grid-template-columns:repeat(2,minma
 <h2>🛠 만드는 법</h2><div class="cb "><button class="cp">복사</button><pre>python3 &quot;/run/media/yh/새 볼륨/_국뽕영상결과물/제작규칙_V4/썸네일_V3/compose4.py&quot; spec.json 출력.jpg</pre></div><p>spec 예시는 <b>시범10_V3.1/05_b.json</b>, 10편 한 번에: <b>make_v31.py</b>. 얼굴은 <mark>face:[가로,세로,얼굴높이]</mark>로 주면 칸 정중앙에 자동 배치, 로고·스티커는 <b>clip</b>으로 잘라낸다. 만든 뒤 반드시 직접 열어 <mark>얼굴·글자 겹침, 뒤집힌 글씨, 옛 자막·로고</mark>를 확인한다.</p>
 <script>
 document.querySelectorAll('.cp').forEach(b=>b.onclick=()=>{navigator.clipboard.writeText(b.nextElementSibling.innerText).then(()=>{b.textContent='복사됨';b.classList.add('ok');setTimeout(()=>{b.textContent='복사';b.classList.remove('ok')},1200)})});
-document.getElementById('all').onclick=e=>{const c=document.body.cloneNode(true);c.querySelectorAll('button,script,img').forEach(x=>x.remove());navigator.clipboard.writeText(c.innerText.trim()).then(()=>{e.target.textContent='✅ 전체 복사됨';setTimeout(()=>e.target.textContent='📋 전체 복사',1500)})};
-</script></body></html>
+document.getElementById('all').onclick=e=>{const c=document.body.cloneNode(true);c.querySelectorAll('button,script,img,#ov').forEach(x=>x.remove());navigator.clipboard.writeText(c.innerText.trim()).then(()=>{e.target.textContent='✅ 전체 복사됨';setTimeout(()=>e.target.textContent='📋 전체 복사',1500)})};
+</script><div id="ov"><img id="big"></div><script>(()=>{const L=[...document.querySelectorAll('a.lb')];let i=0;const ov=document.getElementById('ov'),big=document.getElementById('big');function show(k){i=(k+L.length)%L.length;big.src=L[i].href;ov.style.display='flex'}L.forEach((a,k)=>a.onclick=e=>{e.preventDefault();show(k)});ov.onclick=()=>ov.style.display='none';document.addEventListener('keydown',e=>{if(ov.style.display!=='flex')return;if(e.key==='Escape')ov.style.display='none';if(e.key==='ArrowRight')show(i+1);if(e.key==='ArrowLeft')show(i-1)})})();</script></body></html>

diff --git a/국뽕-유튜브-리서치-허브-20261108/thumb-edit-studio-20261123/data.js b/국뽕-유튜브-리서치-허브-20261108/thumb-edit-studio-20261123/data.js
@@ -8,7 +8,7 @@ const MENUS = {
     {id:'design-dashboard', t:'🎨 통합 디자인 대시보드', s:'사진 24장 · 14색 · 프롬프트 · 전체 자료', tag:'new', f:'../design-dashboard-20261124/index.html'},
     {id:'design-reference', t:'통합 디자인 자료 · REF01–24', s:'색·폰트·지도·댓글·캐릭터', tag:'new', f:'../../research-hub-20261108/kukppong-v4-claude/design-reference-master-20261124/'},
     {grp:'🔥 썸네일 V3.1 규칙 (최신)'},
-    {id:'rulesv3', t:'썸네일 V3.1 규칙 · 전체 복사', s:'중국인/외국인 구분 · 얼굴 정중앙 · 번개 VS · 불꽃 원형 · 시범 30장', tag:'new', f:'thumb-rules-v3/'},
+    {id:'rulesv3', t:'썸네일 V3.1 규칙 · 전체 복사', s:'💀 실수 13개 · 불꽃 VS · 불꽃 원형 · 시범 45장(클릭 확대) · 남은 37편', tag:'new', f:'thumb-rules-v3/'},
     {grp:'⭐ 만들기 (한 화면에서)'},
     {id:'editor', t:'통합 썸네일 편집기', s:'템플릿 11 · 표정 · 원본 14 · 자동 누끼 · 아우라 · PNG', tag:'new', f:'editor.html'},
     {grp:'📌 이번 요청 정리'},
